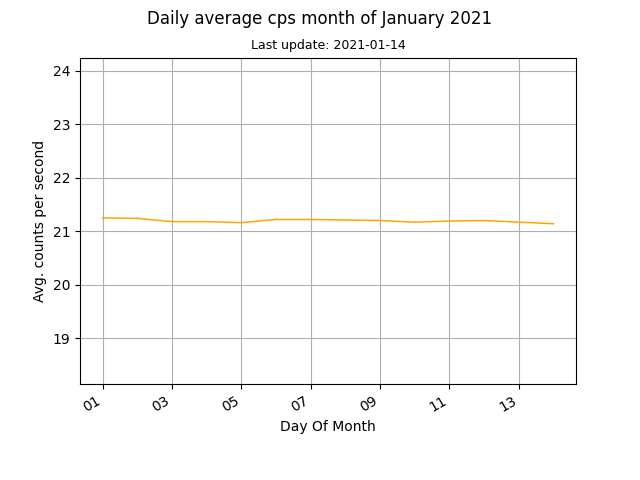
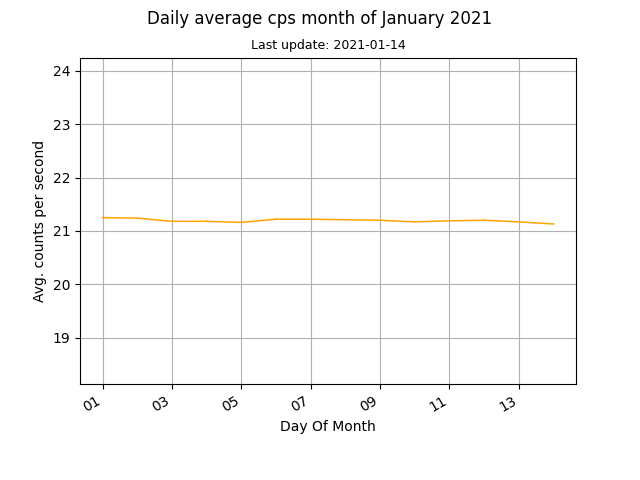
auto data update

Changed region(s): [[0.1562, 0.4375, 0.8125, 0.4688], [0.0938, 0.6875, 0.125, 0.7188], [0.0625, 0.4688, 0.0938, 0.5]]

diff --git a/docs/index.html b/docs/index.html
@@ -45,8 +45,8 @@
 	
 	<br>
 	
-	<p>Current counts per second (cps): 20.96</p>
-	<p>Last update: 2021-01-14, 00:58</p>
+	<p>Current counts per second (cps): 21.07</p>
+	<p>Last update: 2021-01-14, 01:13</p>
 
 	<p><a href="images/monthly.png"><img src="images/monthly.png" alt="Mothly avg cps data"></a><a href="images/daily.png"><img src="images/daily.png" alt="Daily avg cps data"></a></p>
 	
